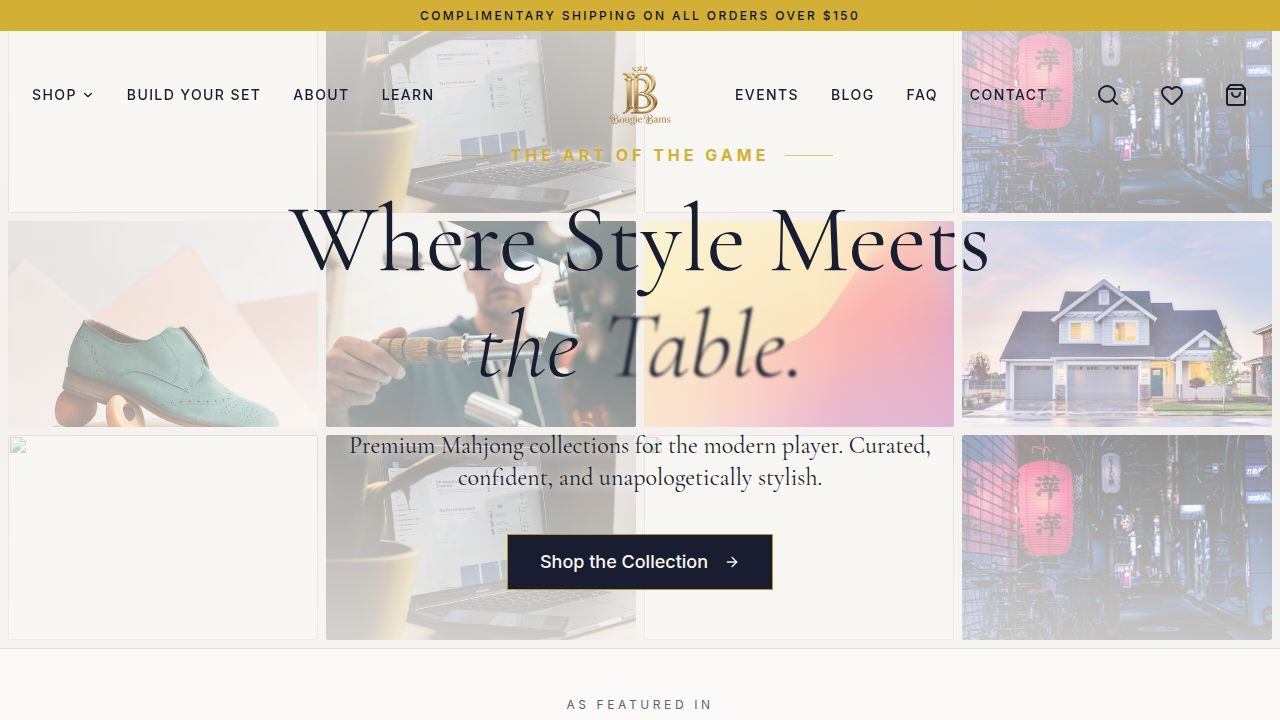
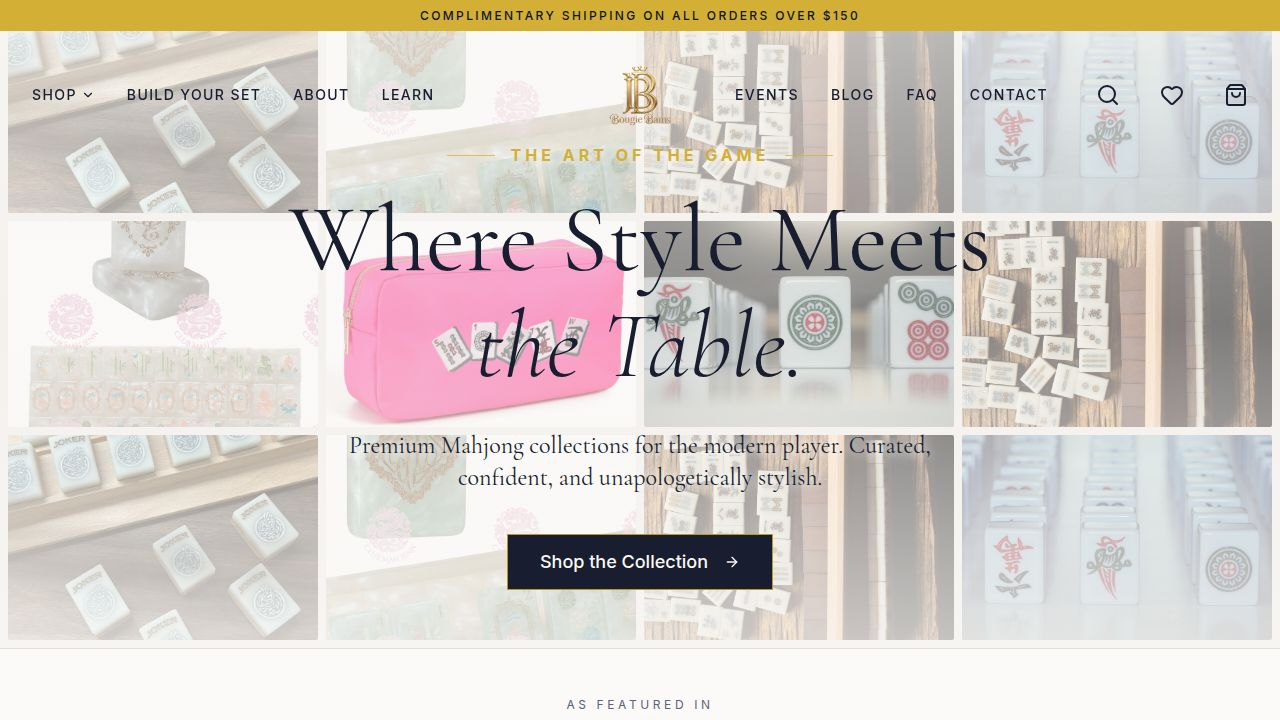
Swap placeholder photos with real BougieBams brand images
## What was done
Replaced all 8 Unsplash placeholder image URLs in `artifacts/bougiebams/src/data/images.ts`
with real mahjong brand photography downloaded locally to `artifacts/bougiebams/public/images/`.

## Images sourced and downloaded
- hero-luxury-set.jpg — luxury mahjong tile set product shot (maztermind.com)
- hero-pale-blue-set.jpg — pale blue custom luxury set (clubmahjenn.com)
- hero-lifestyle.jpg — mahjong game table lifestyle shot (maztermind.com)
- hero-tiles-closeup.jpg — detailed tile close-up (Pexels, free license)
- product-ivory-pearl.jpg — ivory pearl luxury set (clubmahjenn.com)
- product-pink-bag.jpg — pink zippered tile travel bag (Amazon)
- mahjong-tiles-detail.jpg — intricate tile artwork close-up (Pexels, free license)
- mahjong-lifestyle-table.jpg — lifestyle game table (maztermind.com)
- product-tablecloth.jpg — luxury mahjong mat/tablecloth (maztermind.com)
- product-acrylic-box.jpg — acrylic storage/display (Pexels)
- product-napkins.jpg — mahjong cocktail napkins (Amazon)
- product-card-book.jpg — mahjong card accessories (Amazon)

## Code changes
- `images.ts`: Replaced Unsplash URLs with local paths using `import.meta.env.BASE_URL`
  prefix (required for Vite path-based proxy). Added 4 new named exports for
  category-specific images (productTablecloth, productAcrylicBox, productNapkins,
  productCardBook).
- `products.ts`: Updated `productMeta` and `localProducts` to use semantically
[…]

diff --git a/artifacts/bougiebams/src/data/products.ts b/artifacts/bougiebams/src/data/products.ts
@@ -9,6 +9,10 @@ const {
   productRosegold,
   mahjongTilesCloseup,
   mahjongLifestyle,
+  productTablecloth,
+  productAcrylicBox,
+  productNapkins,
+  productCardBook,
 } = images;
 
 export interface Product {
@@ -55,15 +59,15 @@ const DEFAULT_IMAGE = heroTile1;
 
 export const productMeta: Record<string, ProductMeta> = {
   prod_1: { images: [productJade], rating: 4.9, reviewCount: 42, isBestseller: true },
-  prod_2: { images: [productRosegold], rating: 4.8, reviewCount: 28, isNew: true },
+  prod_2: { images: [heroTile2], rating: 4.8, reviewCount: 28, isNew: true },
   prod_3: { images: [heroTile1], rating: 5.0, reviewCount: 15 },
-  prod_4: { images: [heroTile3], rating: 4.7, reviewCount: 56, isBestseller: true },
-  prod_5: { images: [heroTile2], rating: 4.6, reviewCount: 19 },
+  prod_4: { images: [productTablecloth], rating: 4.7, reviewCount: 56, isBestseller: true },
+  prod_5: { images: [mahjongLifestyle], rating: 4.6, reviewCount: 19 },
   prod_6: { images: [mahjongLifestyle], rating: 4.9, reviewCount: 33 },
   prod_7: { images: [heroTile4], rating: 4.8, reviewCount: 21 },
   prod_8: { images: [mahjongTilesCloseup], rating: 5.0, reviewCount: 8 },
   prod_9: { images: [heroTile1], rating: 4.9, reviewCount: 45, isBestseller: true },
-  prod_10: { images: [heroTile3], rating: 4.7, reviewCount: 12 },
+  prod_10: { images: [productTablecloth], rating: 4.7, reviewCount: 12 },
   prod_11: { images: [mahjongLifestyle], rating: 4.8, reviewCount: 27 },
   prod_12: { images: [productJade], rating: 4.5, reviewCount: 14 },
   tiles_debutante: { images: [productJade], rating: 4.9, reviewCount: 18 },
@@ -71,17 +75,17 @@ export const productMeta: Record<string, ProductMeta> = {
   tiles_playingcards: { images: [mahjongTilesCloseup], rating: 4.8, reviewCount: 22 },
   tiles_travelsets: { images: [heroTile3], rating: 4.9, reviewCount: 14 },
   tiles_intlcard: { images: [heroTile1], rating: 4.6, reviewCount: 9 },
-  mats_minitravel: { images: [mahjongLifestyle], rating: 4.7, reviewCount: 12 },
-  mats_rackpushers: { images: [heroTile4], rating: 4.8, reviewCount: 27 },
-  mats_tablecloths: { images: [productRosegold], rating: 4.9, reviewCount: 16 },
+  mats_minitravel: { images: [productTablecloth], rating: 4.7, reviewCount: 12 },
+  mats_rackpushers: { images: [productTablecloth], rating: 4.8, reviewCount: 27 },
+  mats_tablecloths: { images: [productTablecloth], rating: 4.9, reviewCount: 16 },
   mats_aquajong: { images: [mahjongLifestyle], rating: 4.5, reviewCount: 7, isNew: true },
-  storage_zipperedbags: { images: [heroTile1], rating: 4.8, reviewCount: 20 },
-  storage_matstorage: { images: [heroTile2], rating: 4.7, reviewCount: 11 },
-  storage_acrylicboxes: { images: [mahjongTilesCloseup], rating: 4.9, reviewCount: 13 },
-  acc_babies: { images: [heroTile3], rating: 5.0, reviewCount: 8, isNew: true },
-  acc_cardfolios: { images: [heroTile4], rating: 4.6, reviewCount: 10 },
-  acc_book: { images: [mahjongTilesCloseup], rating: 4.9, reviewCount: 24 },
-  acc_napkins: { images: [productRosegold], rating: 4.7, reviewCount: 15 },
+  storage_zipperedbags: { images: [productRosegold], rating: 4.8, reviewCount: 20 },
+  storage_matstorage: { images: [productRosegold], rating: 4.7, reviewCount: 11 },
+  storage_acrylicboxes: { images: [productAcrylicBox], rating: 4.9, reviewCount: 13 },
+  acc_babies: { images: [mahjongTilesCloseup], rating: 5.0, reviewCount: 8, isNew: true },
+  acc_cardfolios: { images: [productCardBook], rating: 4.6, reviewCount: 10 },
+  acc_book: { images: [productCardBook], rating: 4.9, reviewCount: 24 },
+  acc_napkins: { images: [productNapkins], rating: 4.7, reviewCount: 15 },
 };
 
 export const localProducts: Product[] = [
@@ -118,7 +122,7 @@ export const localProducts: Product[] = [
     price: 145,
     category: "Mats",
     description: "A luxurious game mat that keeps your tiles in place and your table protected. Available in four signature colorways.",
-    images: [heroTile4],
+    images: [productTablecloth],
     rating: 4.8,
     reviewCount: 27,
     inStock: true,
@@ -131,7 +135,7 @@ export const localProducts: Product[] = [
     price: 75,
     category: "Mats",
     description: "A beautiful tablecloth designed for game night. Spill-resistant and machine washable.",
-    images: [productRosegold],
+    images: [productTablecloth],
     rating: 4.9,
     reviewCount: 16,
     inStock: true,
@@ -143,7 +147,7 @@ export const localProducts: Product[] = [
     price: 58,
     category: "Storage",
     description: "Keep your tiles on display and dust-free in this sleek acrylic box. Doubles as a conversation piece.",
-    images: [mahjongTilesCloseup],
+    images: [productAcrylicBox],
     rating: 4.9,
     reviewCount: 13,
     inStock: true,
@@ -156,7 +160,7 @@ export const localProducts: Product[] = [
     price: 42,
     category: "Accessories",
     description: "The official National Mah Jongg League card, curated and shipped in a protective sleeve.",
-    images: [mahjongTilesCloseup],
+    images: [productCardBook],
     rating: 4.9,
     reviewCount: 24,
     inStock: true,
@@ -169,7 +173,7 @@ export const localProducts: Product[] = [
     price: 18,
     category: "Accessories",
     description: "Elegant cocktail napkins with Mahjong motifs. A thoughtful gift for any player.",
-    images: [productRosegold],
+    images: [productNapkins],
     rating: 4.7,
     reviewCount: 15,
     inStock: true,
@@ -181,7 +185,7 @@ export const localProducts: Product[] = [
     price: 32,
     category: "Storage",
     description: "A chic zippered bag for travel. Holds a full set of tiles, racks, and dice.",
-    images: [heroTile1],
+    images: [productRosegold],
     rating: 4.8,
     reviewCount: 20,
     inStock: true,
@@ -218,7 +222,7 @@ export const localProducts: Product[] = [
     price: 14,
     category: "Accessories",
     description: "Adorable miniature tile keychains — collect all the suits. A perfect stocking stuffer.",
-    images: [heroTile3],
+    images: [mahjongTilesCloseup],
     rating: 5.0,
     reviewCount: 8,
     inStock: true,

diff --git a/artifacts/bougiebams/src/data/images.ts b/artifacts/bougiebams/src/data/images.ts
@@ -1,11 +1,17 @@
-const heroTile1 = "https://images.unsplash.com/photo-1564144006388-615f9a9b8d97?w=600&q=80";
-const heroTile2 = "https://images.unsplash.com/photo-1606166325683-e6deb697d301?w=600&q=80";
-const heroTile3 = "https://images.unsplash.com/photo-1610484826967-09aa6ade6d56?w=600&q=80";
-const heroTile4 = "https://images.unsplash.com/photo-1528360983277-13d401cdc186?w=600&q=80";
-const productJade = "https://images.unsplash.com/photo-1560343090-f0409e92791a?w=600&q=80";
-const productRosegold = "https://images.unsplash.com/photo-1558618666-fcd25c85cd64?w=600&q=80";
-const mahjongTilesCloseup = "https://images.unsplash.com/photo-1618367588411-d9a90fefa881?w=800&q=80";
-const mahjongLifestyle = "https://images.unsplash.com/photo-1549517045-bc93de075e53?w=800&q=80";
+const base = import.meta.env.BASE_URL.replace(/\/$/, "");
+
+const heroTile1 = `${base}/images/hero-luxury-set.jpg`;
+const heroTile2 = `${base}/images/hero-pale-blue-set.jpg`;
+const heroTile3 = `${base}/images/hero-lifestyle.jpg`;
+const heroTile4 = `${base}/images/hero-tiles-closeup.jpg`;
+const productJade = `${base}/images/product-ivory-pearl.jpg`;
+const productRosegold = `${base}/images/product-pink-bag.jpg`;
+const mahjongTilesCloseup = `${base}/images/mahjong-tiles-detail.jpg`;
+const mahjongLifestyle = `${base}/images/mahjong-lifestyle-table.jpg`;
+const productTablecloth = `${base}/images/product-tablecloth.jpg`;
+const productAcrylicBox = `${base}/images/product-acrylic-box.jpg`;
+const productNapkins = `${base}/images/product-napkins.jpg`;
+const productCardBook = `${base}/images/product-card-book.jpg`;
 
 export const images = {
   heroTile1,
@@ -16,4 +22,8 @@ export const images = {
   productRosegold,
   mahjongTilesCloseup,
   mahjongLifestyle,
+  productTablecloth,
+  productAcrylicBox,
+  productNapkins,
+  productCardBook,
 };